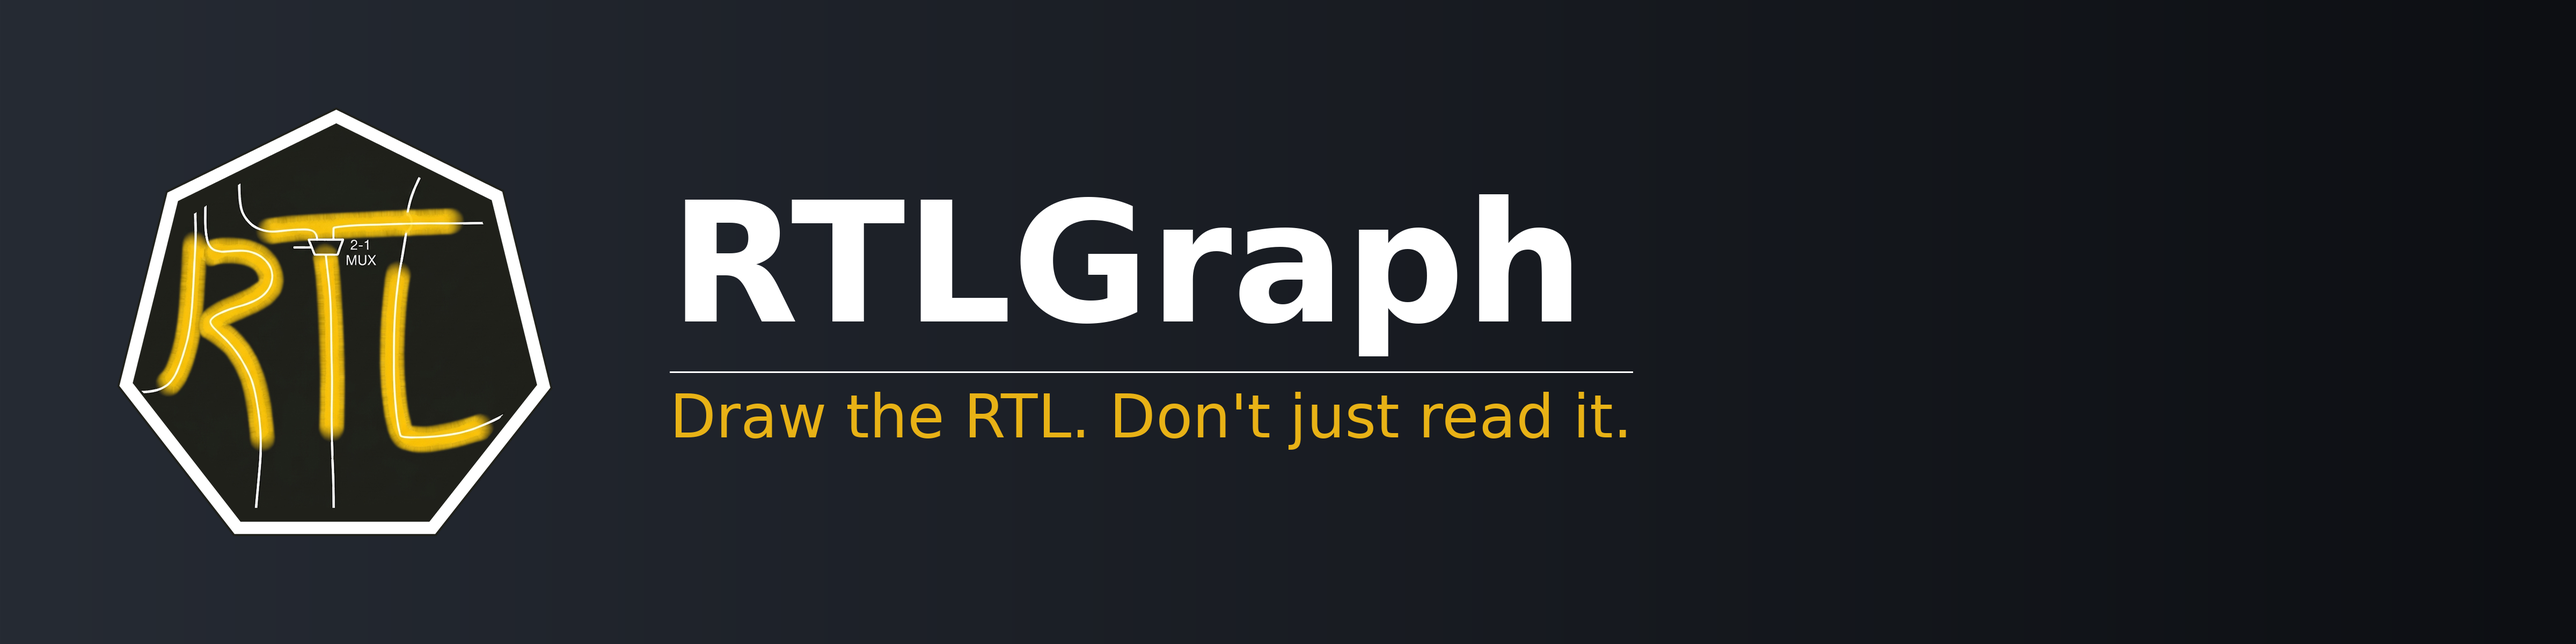
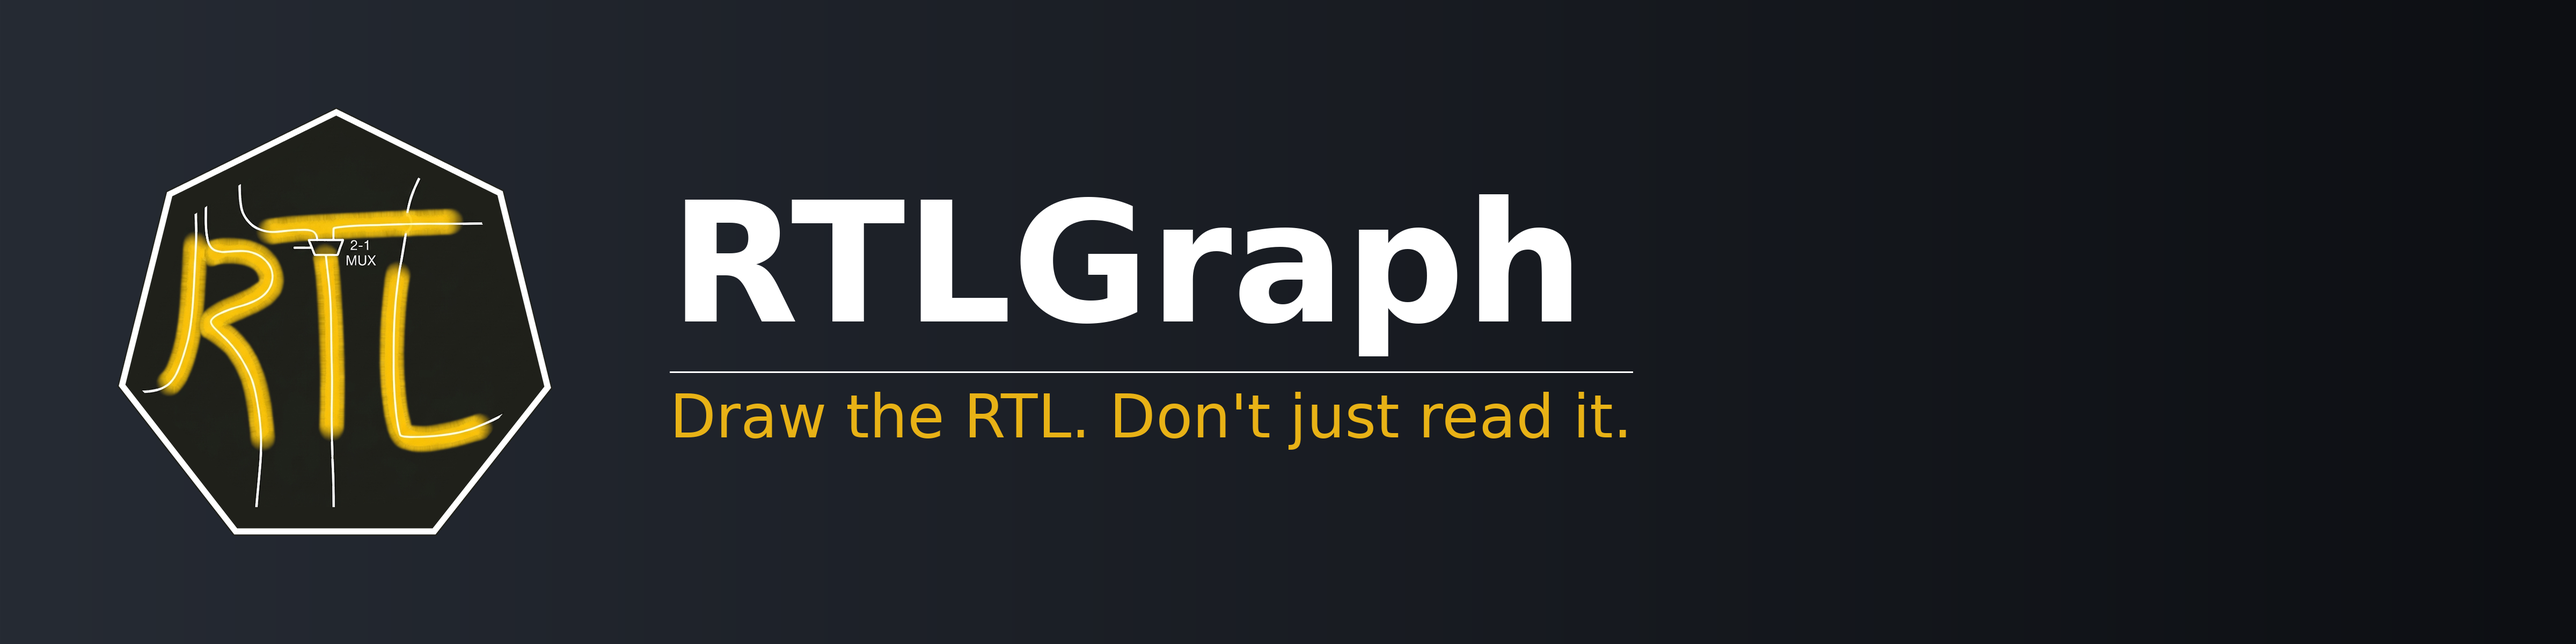
fix(ext): make turning a corner say what it turned
Right-clicking a wire flips a corner, and nothing on screen said so: no
drag, no grip moving, and when the click was not near a corner it turned
the *first* one — a bend at the far side of the picture moved and the
editor looked like it had done something at random.

It now turns the corner nearest the click, and says which wire it
turned and that right-clicking again brings it back. A wire that runs
straight from pin to pin has no corner, and says that instead of looking
broken. The README explains the rule: two runs meeting at a right angle
span a rectangle, so there are exactly two ways round it.

The icon's white rim is half as thick — it read as a frame rather than
an edge at the banner's size.

Claude-Session: https://claude.ai/code/session_01M1U5yYakvcBprFxbhHv9b1

diff --git a/packages/vscode-ext/src/webview/main.ts b/packages/vscode-ext/src/webview/main.ts
@@ -15,8 +15,8 @@ import {
   type FoldAction, type FoldScope, type ViewGroup, type Viewport,
 } from './state.ts'
 import {
-  belongsToThisFile, branchAt, branchesOf, cleared, emptyLayout, isArranged, isCut, midpoint,
-  linkDecision, movedSegment, movedTo, removedVertex, resizedTo, segmentAt, shapedTo, turnedAt, withCut,
+  belongsToThisFile, branchAt, branchesOf, cleared, cornerFor, emptyLayout, isArranged, isCut, midpoint,
+  linkDecision, movedSegment, movedTo, removedVertex, resizedTo, segmentAt, shapedTo, turnedCorner, withCut,
   withLink, withoutCut, withoutLink, type Point,
 } from './edit.ts'
 
@@ -990,9 +990,22 @@ canvas.addEventListener('contextmenu', event => {
   const branches = branchesOfSelected()
   const shape = shapeOfSelected()
   if (!shape) return
-  const turned = turnedAt(shape, at, TURN_REACH / (viewport?.zoom ?? 1))
+  // Turning a corner is the one edit with nothing to see while it happens — no
+  // drag, no grip moving under the hand — so it says what it did. A wire with no
+  // corner at all would otherwise look like a right-click that did nothing.
+  const corner = cornerFor(shape, at, TURN_REACH / (viewport?.zoom ?? 1))
+  if (corner === undefined) {
+    notice(`${shortName(name)} runs straight from one pin to the other — there is no corner to turn`)
+    return
+  }
+  const turned = turnedCorner(shape, corner)
+  if (turned.length === shape.length && turned.every((p, i) => p.x === shape[i].x && p.y === shape[i].y)) {
+    notice(`that corner of ${shortName(name)} cannot go the other way round`)
+    return
+  }
   arrangement = shapedTo(arrangement, name, (branches ?? [shape]).map((path, i) => (i === selectedBranch ? turned : path)))
   selectedVertex = undefined
+  notice(`turned a corner of ${shortName(name)} the other way round — right-click it again to bring it back`)
   saveArrangement()
 })
 

diff --git a/packages/vscode-ext/test/edit.test.ts b/packages/vscode-ext/test/edit.test.ts
@@ -5,7 +5,7 @@ import { join } from 'node:path'
 import type { ComponentGraph, Layout } from '@rtlgraph/ir'
 import {
   belongsToThisFile, cleared, emptyLayout, isArranged, isCut, linkedPair, movedTo, resizedTo, shapedTo,
-  linkDecision, turnedAt, vertexAt, withCut, withLink, withoutCut, withoutLink,
+  cornerFor, linkDecision, turnedAt, vertexAt, withCut, withLink, withoutCut, withoutLink,
 } from '../src/webview/edit.ts'
 
 test('only what this file draws can be arranged here', () => {
@@ -68,11 +68,14 @@ test('a right-click turns the corner under the hand the other way round', () => 
   assert.deepEqual(turnedAt(turned, { x: 0, y: 30 }, 8), elbow, 'and back again')
 })
 
-test('with no corner under the hand it turns the first one', () => {
+test('a click between corners turns the nearest one, not the first', () => {
+  //  (0,0) → (20,0) → (20,30) → (60,30): corners at (20,0) and (20,30)
   const zig = [{ x: 0, y: 0 }, { x: 20, y: 0 }, { x: 20, y: 30 }, { x: 60, y: 30 }]
-  assert.deepEqual(turnedAt(zig, { x: 55, y: 30 }, 4)[1], { x: 0, y: 30 })
+  assert.equal(cornerFor(zig, { x: 55, y: 30 }, 4), 2, 'the far end of the last run belongs to the corner it starts at')
+  assert.equal(cornerFor(zig, { x: 5, y: 0 }, 4), 1)
   // A straight run has no corner to turn, so it is left alone.
   const straight = [{ x: 0, y: 0 }, { x: 40, y: 0 }]
+  assert.equal(cornerFor(straight, { x: 20, y: 0 }, 8), undefined)
   assert.deepEqual(turnedAt(straight, { x: 20, y: 0 }, 8), straight)
 })
 

diff --git a/packages/vscode-ext/src/webview/edit.ts b/packages/vscode-ext/src/webview/edit.ts
@@ -288,8 +288,18 @@ export function turnedCorner(points: readonly Point[], index: number): Point[] {
 
 // The right-click: turn the corner under the hand, else the first corner of the
 // run — "bend it the other way, from the start".
+// The corner a right-click means: the one under the hand, or — when the click
+// landed on a straight run between corners — the nearest one. Turning the first
+// corner of the wire instead, as this used to, moved a bend at the far end of
+// the picture and read as the editor doing something at random.
+export function cornerFor(points: readonly Point[], at: Point, within: number): number | undefined {
+  const under = vertexAt(points, at, within)
+  if (under !== undefined) return under
+  return vertexAt(points, at, Infinity)
+}
+
 export function turnedAt(points: readonly Point[], at: Point, within: number): Point[] {
-  const corner = vertexAt(points, at, within) ?? (points.length > 2 ? 1 : undefined)
+  const corner = cornerFor(points, at, within)
   return corner === undefined ? [...points] : turnedCorner(points, corner)
 }
 

diff --git a/tools/logo.py b/tools/logo.py
@@ -131,7 +131,7 @@ def corners(shape, want=7):
     return best
 
 
-def rimmed(image, band=0.028, inset=0.020):
+def rimmed(image, band=0.014, inset=0.013):
     """The shape re-cut along its own outline, with a thin white band on the edge —
     NodeGraph's icon wears the same rim, and it is what keeps a dark heptagon from
     sinking into a dark background."""

diff --git a/README.md b/README.md
@@ -185,7 +185,7 @@ example, handout included.
 | Drag a frame's corner | Resize it |
 | Drag a straight run of a wire | Shift that run sideways |
 | Drag from a pin | Draw a link — drop it on a pin, or anywhere over the target box and it snaps to the nearest pin that can take it; while you drag, only the pins that can take it stay lit |
-| Right-click a wire | Turn its corner the other way round |
+| Right-click a wire | Flip the nearest corner: an `L` becomes a `Γ` and back. A wire only ever turns at right angles, so two runs meeting at a corner span a rectangle and there are exactly two ways round it — right-clicking swaps them, and right-clicking again puts it back. The editor says which wire it turned; a wire that runs straight has no corner and says so |
 | `Delete` | Cut the selected link (drawing it again puts it back) |
 
 Everything here is written under `layout` in the file, and nothing else is.
